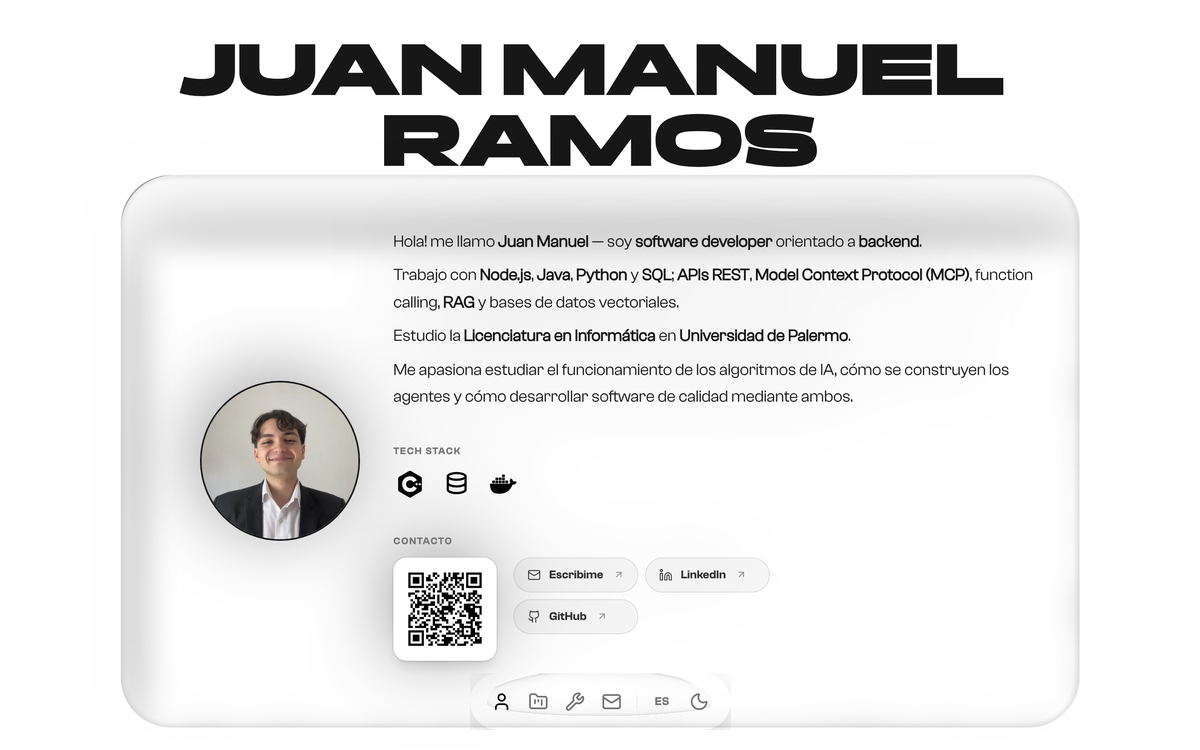
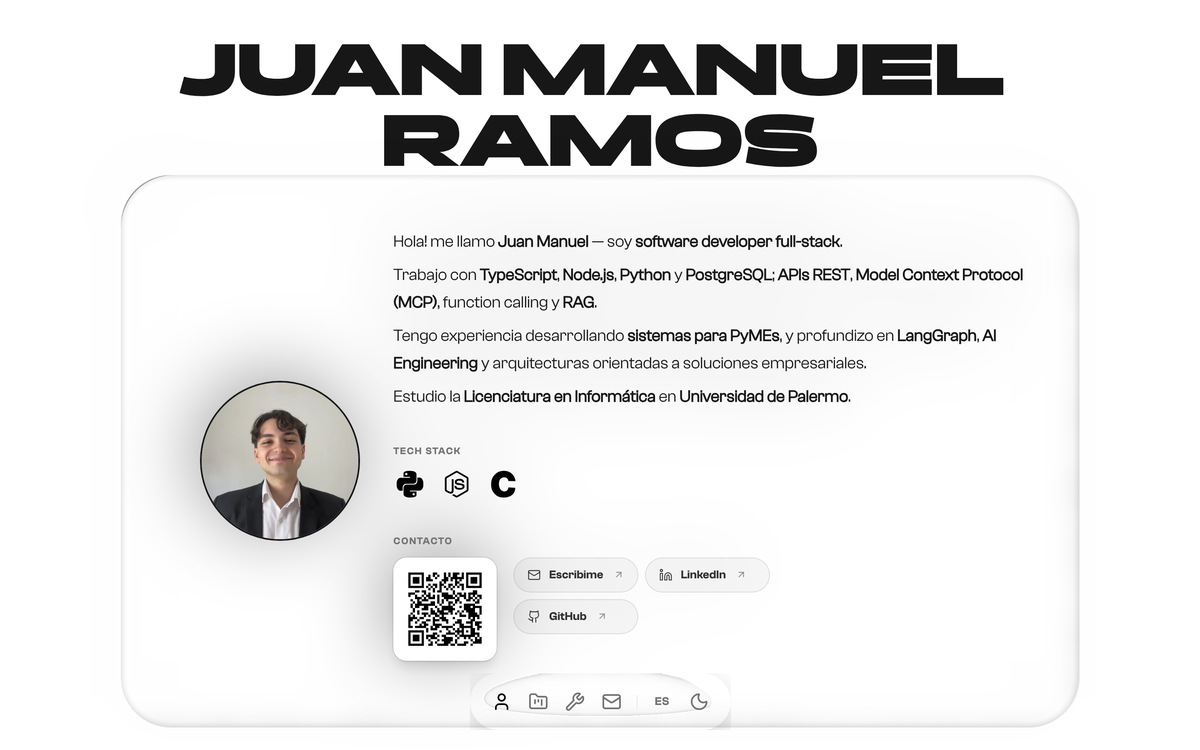
actualizo la presentacion a full-stack y sumo typescript y postgresql

Changed region(s): [[0.1233, 0.276, 0.8942, 0.552], [0.0925, 0.3373, 0.1233, 0.9507], [0.3392, 0.6133, 0.4317, 0.6747]]

diff --git a/sections/Hero.tsx b/sections/Hero.tsx
@@ -16,42 +16,43 @@ const bio = {
   es: [
     <>
       Hola! me llamo <strong>Juan Manuel</strong> — soy{" "}
-      <strong>software developer</strong> orientado a <strong>backend</strong>.
+      <strong>software developer full-stack</strong>.
     </>,
     <>
-      Trabajo con <strong>Node.js</strong>, <strong>Java</strong>,{" "}
-      <strong>Python</strong> y <strong>SQL</strong>; <strong>APIs REST</strong>,{" "}
-      <strong>Model Context Protocol (MCP)</strong>, function calling,{" "}
-      <strong>RAG</strong> y bases de datos vectoriales.
+      Trabajo con <strong>TypeScript</strong>, <strong>Node.js</strong>,{" "}
+      <strong>Python</strong> y <strong>PostgreSQL</strong>;{" "}
+      <strong>APIs REST</strong>, <strong>Model Context Protocol (MCP)</strong>,
+      function calling y <strong>RAG</strong>.
+    </>,
+    <>
+      Tengo experiencia desarrollando <strong>sistemas para PyMEs</strong>, y
+      profundizo en <strong>LangGraph</strong>, <strong>AI Engineering</strong> y
+      arquitecturas orientadas a soluciones empresariales.
     </>,
     <>
       Estudio la <strong>Licenciatura en Informática</strong> en{" "}
       <strong>Universidad de Palermo</strong>.
     </>,
-    <>
-      Me apasiona estudiar el funcionamiento de los algoritmos de IA, cómo se
-      construyen los agentes y cómo desarrollar software de calidad mediante
-      ambos.
-    </>,
   ],
   en: [
     <>
       Hi, I&apos;m <strong>Juan</strong> — a{" "}
-      <strong>software developer</strong> focused on <strong>backend</strong>.
+      <strong>full-stack software developer</strong>.
     </>,
     <>
-      I work with <strong>Node.js</strong>, <strong>Java</strong>,{" "}
-      <strong>Python</strong> and <strong>SQL</strong>; <strong>REST APIs</strong>,{" "}
-      <strong>Model Context Protocol (MCP)</strong>, function calling,{" "}
-      <strong>RAG</strong> and vector databases.
+      I work with <strong>TypeScript</strong>, <strong>Node.js</strong>,{" "}
+      <strong>Python</strong> and <strong>PostgreSQL</strong>;{" "}
+      <strong>REST APIs</strong>, <strong>Model Context Protocol (MCP)</strong>,
+      function calling and <strong>RAG</strong>.
+    </>,
+    <>
+      I build <strong>systems for small and medium businesses</strong>, and I&apos;m
+      going deeper into <strong>LangGraph</strong>, <strong>AI Engineering</strong>{" "}
+      and architectures for enterprise software.
     </>,
     <>
       I’m studying a <strong>BSc in Computer Science</strong> at{" "}
       <strong>Universidad de Palermo</strong>.
-    </>,
-    <>
-      I&apos;m fascinated by how AI algorithms work, how agents are built, and
-      how to write quality software with both.
     </>,
   ],
 };

diff --git a/lib/i18n.tsx b/lib/i18n.tsx
@@ -35,11 +35,11 @@ const es = {
 
   "projects.title": "Projects",
   "projects.iWorkOn": "trabajo en",
-  "projects.chip1": "Backend",
+  "projects.chip1": "Full-Stack",
   "projects.chip2": "APIs REST",
   "projects.chip3": "Bases de datos",
   "projects.chip4": "MCP",
-  "projects.chip5": "Function calling",
+  "projects.chip5": "AI Engineering",
   "projects.seeMore": "ver más …",
 
   "detail.impact": "Impacto",
@@ -97,11 +97,11 @@ const en: Record<Key, string> = {
 
   "projects.title": "Projects",
   "projects.iWorkOn": "i work on",
-  "projects.chip1": "Backend",
+  "projects.chip1": "Full-Stack",
   "projects.chip2": "REST APIs",
   "projects.chip3": "Databases",
   "projects.chip4": "MCP",
-  "projects.chip5": "Function calling",
+  "projects.chip5": "AI Engineering",
   "projects.seeMore": "see more …",
 
   "detail.impact": "Impact",

diff --git a/app/layout.tsx b/app/layout.tsx
@@ -21,9 +21,9 @@ import { LanguageProvider } from "@/lib/i18n";
 import "./globals.css";
 
 export const metadata: Metadata = {
-  title: "Juan Manuel Ramos — Software Developer",
+  title: "Juan Manuel Ramos — Full-Stack Developer",
   description:
-    "Portafolio de Juan Manuel Ramos, software developer orientado a backend: automatización, bots de Telegram e integración de APIs.",
+    "Portafolio de Juan Manuel Ramos, software developer full-stack: TypeScript, Node.js, PostgreSQL y Python; sistemas para PyMEs, APIs REST y AI Engineering.",
   icons: {
     icon: "/favicon.png",
     apple: "/apple-icon.png",

diff --git a/sections/tools.tsx b/sections/tools.tsx
@@ -47,6 +47,7 @@ const buckets: Bucket[] = [
     tools: [
       { name: "Java", img: "/icons/java-logo.svg" },
       { name: "Python", slug: "python" },
+      { name: "TypeScript", slug: "typescript" },
       { name: "JavaScript", slug: "javascript" },
       { name: "SQL", Icon: Database },
       { name: "C", slug: "c" },
@@ -66,6 +67,7 @@ const buckets: Bucket[] = [
   {
     key: "tools.data",
     tools: [
+      { name: "PostgreSQL", slug: "postgresql" },
       { name: "SQL Server", Icon: Database },
       { name: "Firestore", slug: "firebase" },
       { name: "Microsoft Excel", Icon: Table2 },

diff --git a/README.en.md b/README.en.md
@@ -2,7 +2,7 @@
 
 [Español](README.md) · **English**
 
-Personal portfolio of **Juan Manuel Ramos**, a backend-focused software developer.
+Personal portfolio of **Juan Manuel Ramos**, a full-stack software developer.
 A single-page site, bilingual (Spanish / English), with light and dark modes.
 
 [![Next.js](https://img.shields.io/badge/Next.js-16-000000?logo=nextdotjs&logoColor=white)](https://nextjs.org/)
